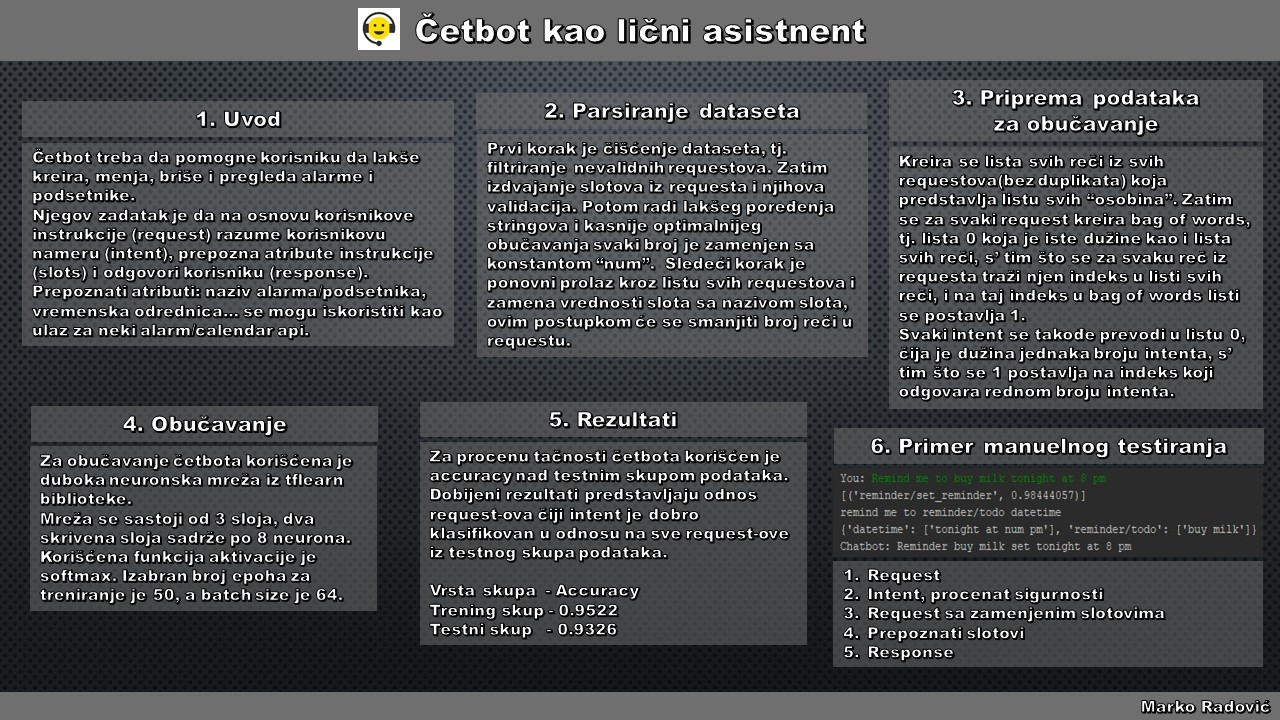
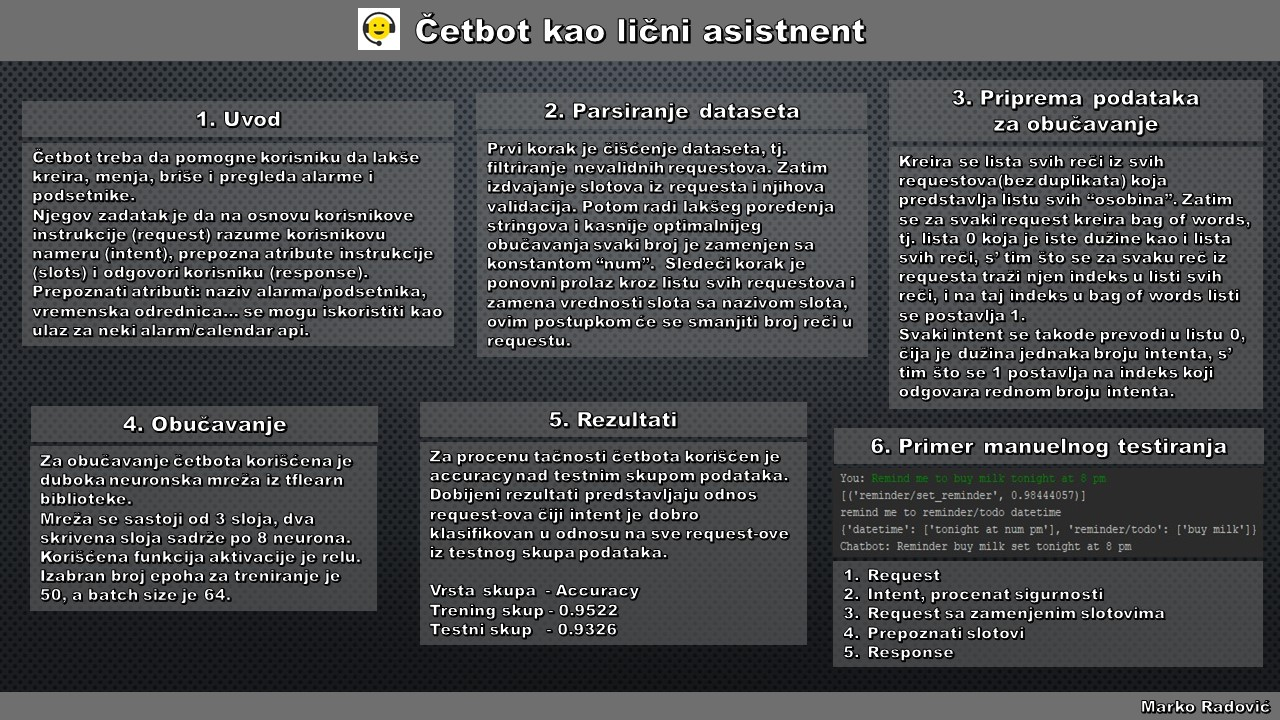
set relu as activation function

Changed region(s): [[0.0312, 0.7639, 0.2812, 0.8556]]

diff --git a/chatbot/code/model_service.py b/chatbot/code/model_service.py
@@ -7,8 +7,8 @@ def create_model(train_x_data_shape, train_y_data_shape):
     tf.reset_default_graph()
     # Build neural network
     net = tflearn.input_data(shape=train_x_data_shape)
-    net = tflearn.fully_connected(net, 8)
-    net = tflearn.fully_connected(net, 8)
+    net = tflearn.fully_connected(net, 8, activation="relu")
+    net = tflearn.fully_connected(net, 8, activation="relu")
     net = tflearn.fully_connected(net, train_y_data_shape, activation='softmax')
     net = tflearn.regression(net)
 
